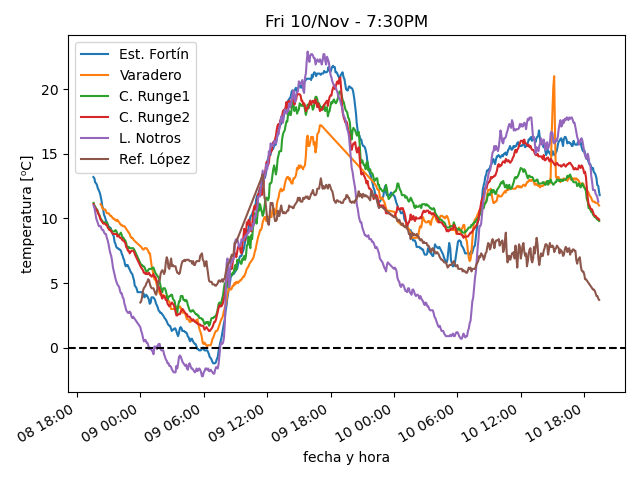
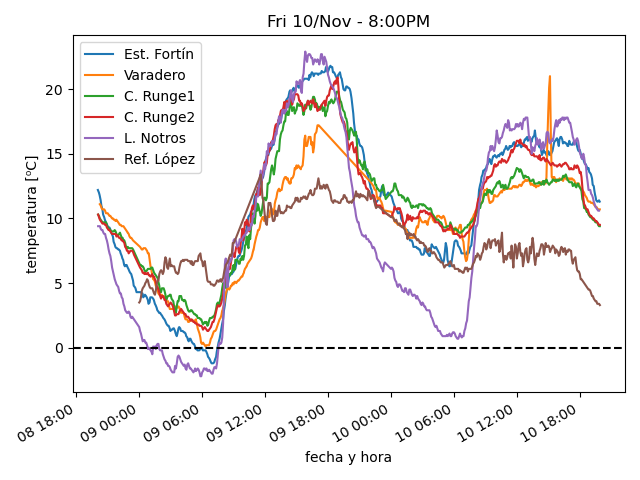
actualiza datos

diff --git a/estaciones/estacion1.html b/estaciones/estacion1.html
@@ -18,32 +18,32 @@
     </tr>
     <tr>
      <td class="stats_data">
-      7:27PM
+      7:53PM
      </td>
     </tr>
     <tr>
      <td class="stats_data">
-      11.8⁰C
+      11.3⁰C
      </td>
     </tr>
     <tr>
      <td class="stats_data">
-      1.2⁰C
+      1.9⁰C
      </td>
     </tr>
     <tr>
      <td class="stats_data">
-      48.5%
+      52.5%
      </td>
     </tr>
     <tr>
      <td class="stats_data">
-      1002.37hPa
+      1002.71hPa
      </td>
     </tr>
     <tr>
      <td class="stats_data">
-      13.7/29.8 km/hr WSW
+      14.4/23.3 km/hr W
      </td>
     </tr>
     <tr>
@@ -58,7 +58,7 @@
     </tr>
     <tr>
      <td class="stats_data">
-      32.0 W/m²
+      25.0 W/m²
      </td>
     </tr>
    </tbody>

diff --git a/estaciones/estacion2.html b/estaciones/estacion2.html
@@ -18,32 +18,32 @@
     </tr>
     <tr>
      <td class="stats_data">
-      7:24PM
+      7:54PM
      </td>
     </tr>
     <tr>
      <td class="stats_data">
-      11.0⁰C
+      10.7⁰C
      </td>
     </tr>
     <tr>
      <td class="stats_data">
-      4.5⁰C
+      4.8⁰C
      </td>
     </tr>
     <tr>
      <td class="stats_data">
-      64.3%
+      67.0%
      </td>
     </tr>
     <tr>
      <td class="stats_data">
-      1011.04hPa
+      1011.24hPa
      </td>
     </tr>
     <tr>
      <td class="stats_data">
-      32.0/38.3 km/hr NW
+      26.9/31.2 km/hr NW
      </td>
     </tr>
     <tr>
@@ -58,7 +58,7 @@
     </tr>
     <tr>
      <td class="stats_data">
-      45.0 W/m²
+      25.6 W/m²
      </td>
     </tr>
    </tbody>

diff --git a/estaciones/estacion6.html b/estaciones/estacion6.html
@@ -18,22 +18,22 @@
     </tr>
     <tr>
      <td class="stats_data">
-      7:25PM
+      7:55PM
      </td>
     </tr>
     <tr>
      <td class="stats_data">
-      3.7⁰C
+      3.3⁰C
      </td>
     </tr>
     <tr>
      <td class="stats_data">
-      -1.5⁰C
+      -1.6⁰C
      </td>
     </tr>
     <tr>
      <td class="stats_data">
-      69.0%
+      70.0%
      </td>
     </tr>
     <tr>
@@ -43,7 +43,7 @@
     </tr>
     <tr>
      <td class="stats_data">
-      20.9/35.4 km/hr NE
+      14.5/27.4 km/hr NE
      </td>
     </tr>
     <tr>
@@ -58,7 +58,7 @@
     </tr>
     <tr>
      <td class="stats_data">
-      895.0 W/m²
+      898.0 W/m²
      </td>
     </tr>
    </tbody>

diff --git a/estaciones/estacion3.html b/estaciones/estacion3.html
@@ -18,22 +18,22 @@
     </tr>
     <tr>
      <td class="stats_data">
-      7:24PM
+      7:54PM
      </td>
     </tr>
     <tr>
      <td class="stats_data">
-      9.8⁰C
+      9.4⁰C
      </td>
     </tr>
     <tr>
      <td class="stats_data">
-      3.1⁰C
+      3.6⁰C
      </td>
     </tr>
     <tr>
      <td class="stats_data">
-      63.1%
+      67.0%
      </td>
     </tr>
     <tr>
@@ -43,7 +43,7 @@
     </tr>
     <tr>
      <td class="stats_data">
-      16.9/24.6 km/hr NW
+      16.2/22.7 km/hr NW
      </td>
     </tr>
     <tr>
@@ -58,7 +58,7 @@
     </tr>
     <tr>
      <td class="stats_data">
-      52.5 W/m²
+      26.4 W/m²
      </td>
     </tr>
    </tbody>

diff --git a/estaciones/estacion4.html b/estaciones/estacion4.html
@@ -18,22 +18,22 @@
     </tr>
     <tr>
      <td class="stats_data">
-      7:24PM
+      7:54PM
      </td>
     </tr>
     <tr>
      <td class="stats_data">
-      9.9⁰C
+      9.5⁰C
      </td>
     </tr>
     <tr>
      <td class="stats_data">
-      2.0⁰C
+      2.6⁰C
      </td>
     </tr>
     <tr>
      <td class="stats_data">
-      57.8%
+      61.9%
      </td>
     </tr>
     <tr>
@@ -43,7 +43,7 @@
     </tr>
     <tr>
      <td class="stats_data">
-      6.6/10.5 km/hr SW
+      5.0/7.9 km/hr SW
      </td>
     </tr>
     <tr>
@@ -58,7 +58,7 @@
     </tr>
     <tr>
      <td class="stats_data">
-      38.6 W/m²
+      21.2 W/m²
      </td>
     </tr>
    </tbody>

diff --git a/estaciones/estacion5.html b/estaciones/estacion5.html
@@ -18,27 +18,27 @@
     </tr>
     <tr>
      <td class="stats_data">
-      7:20PM
+      7:50PM
      </td>
     </tr>
     <tr>
      <td class="stats_data">
-      11.3⁰C
+      10.6⁰C
      </td>
     </tr>
     <tr>
      <td class="stats_data">
-      2.8⁰C
+      2.7⁰C
      </td>
     </tr>
     <tr>
      <td class="stats_data">
-      56.0%
+      58.0%
      </td>
     </tr>
     <tr>
      <td class="stats_data">
-      1005.28hPa
+      1005.49hPa
      </td>
     </tr>
     <tr>
